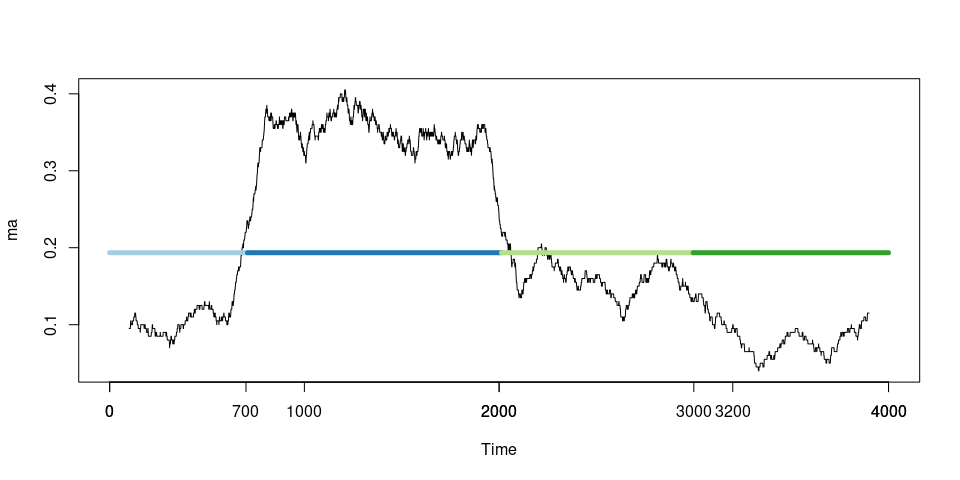
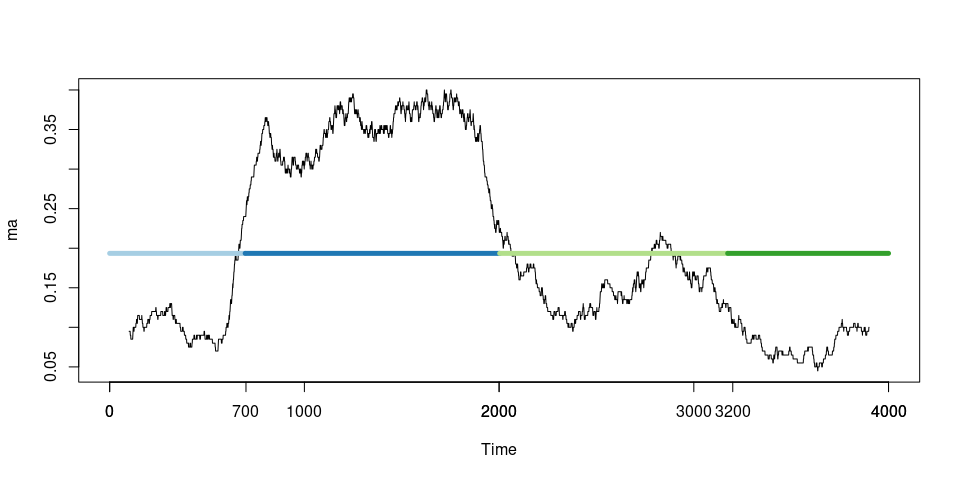
added +1 to denominator more robust

diff --git a/src/improve.cpp b/src/improve.cpp
@@ -36,7 +36,7 @@ double getChiSquare(arma::rowvec par, arma::uvec& muts, double& L)
       imuts++;
     }
     expected = density*(par(ipar)-par(ipar-1)+1);
-    chiSquare += (nmuts - expected)*(nmuts - expected)/expected;
+    chiSquare += (nmuts - expected)*(nmuts - expected)/(1+expected);
   }
   return(chiSquare);
 }
@@ -88,9 +88,9 @@ long int getBestSingleBreak(arma::uvec& muts, double& L, arma::rowvec& parPrev)
       if (x > parPrev(ipar-1) + 10 && x < parPrev(ipar)-10 && nmuts>5)
       {
         expected1 = density*(x-parPrev(ipar-1)+1);
-        ChiSquare1 = (nmutsx - expected1)*(nmutsx - expected1)/expected1;
+        ChiSquare1 = (nmutsx - expected1)*(nmutsx - expected1)/(expected1 +1);
         expected2 = density*(parPrev(ipar) - x + 1);
-        ChiSquare2 = (nmuts - nmutsx - expected2)*(nmuts - nmutsx - expected2)/expected2;
+        ChiSquare2 = (nmuts - nmutsx - expected2)*(nmuts - nmutsx - expected2)/(expected2 + 1);
         if (ChiSquare1 + ChiSquare2 - ChiSquare > bestChiSquareDiff)
         {
           bestChiSquareDiff = ChiSquare1 + ChiSquare2 - ChiSquare;

diff --git a/README.md b/README.md
@@ -1,6 +1,6 @@
 segmut
 ================
-2022-12-21
+2023-01-11
 
 <!-- README.md is generated from README.Rmd. Please edit that file -->
 
@@ -184,10 +184,10 @@ for (i in order(-Ls))
 taus <- nmutsS/Ks
 end_time <- Sys.time()
 print(end_time - start_time)
-#> Time difference of 0.2218208 secs
+#> Time difference of 0.1772611 secs
 ```
 
-In total there are 2697 segments.
+In total there are 2265 segments.
 
 Plotting divergences and lengths of the segments:
 
@@ -283,7 +283,7 @@ for (j in 1:(length(breaks0L)-1))
 taus <- nmutsS/Ks
 end_time <- Sys.time()
 print(end_time - start_time)
-#> Time difference of 2.686884 mins
+#> Time difference of 1.226215 mins
 
 colors <- rep(brewer.pal(name="Paired", n=8),round(length(breaks0L)/8+1))
 par(mar=c(2,0,0,0))
